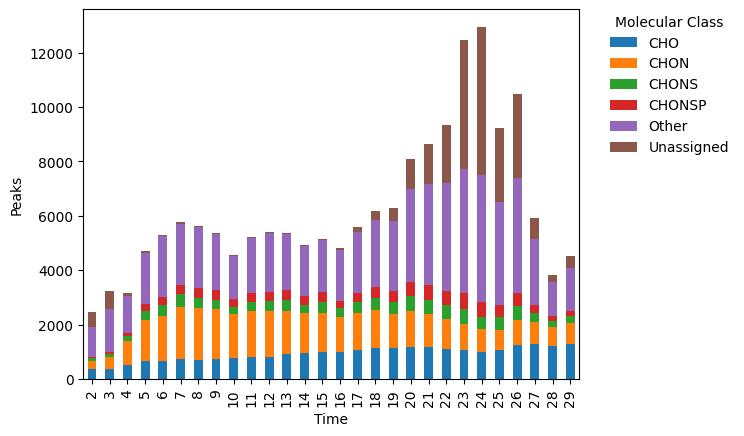
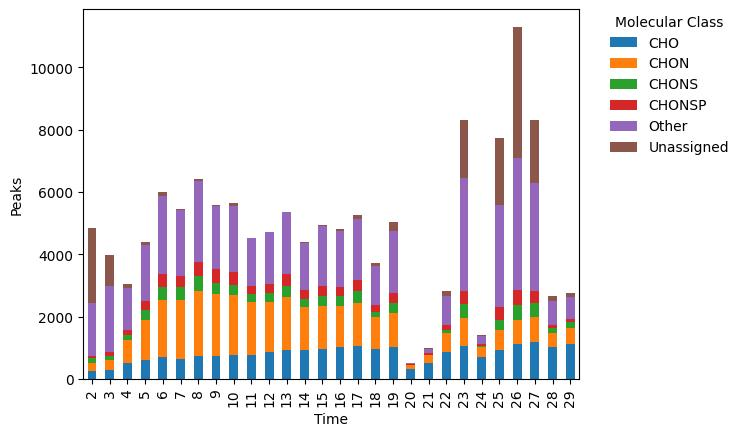
added code snippets for plotting

diff --git a/docs/workflow.rst b/docs/workflow.rst
@@ -68,7 +68,13 @@ Running this method produces (a) a plot of the EICs of the internal standard m/z
 Examine assignment error distributions
 ~~~~~~~~~~~~~~~~~~~~~~~~~~~~~~~~~~~~~~
 
-We can also plot the m/z error for each assignment across the mass range. This allows us to evaluate the calibration and whether there is a systematic drift in the data. An example of this is shown in Figure 2. 
+We can also plot the m/z error for each assignment across the mass range, for each sample within the dataset.
+
+.. code-block::
+
+    assignments.run_assignment_error_plot(n_molclass = 3)
+    
+This allows us to evaluate the calibration and whether there is a systematic drift in the data. An example of this is shown in Figure 2. 
 
 .. raw:: html
 
@@ -77,7 +83,7 @@ We can also plot the m/z error for each assignment across the mass range. This a
 
 .. image:: ./images/mz-error.jpg
 
-**Figure 2.** **(a)** The assignment error for formulas in the CHO, CHON, and CHOS molecular classes across the mass range. **(b)** Kernel density estimation plots of assignment error for each time-averaged mass spectrum.
+**Figure 2.** **(a)** The assignment error for formulas in the CHO, CHON, and CHOS molecular classes across the mass range in one sample of the dataset. **(b)** Kernel density estimation plots of assignment error for each time-averaged mass spectrum for the same sample.
 
 .. raw:: html
 
@@ -90,6 +96,10 @@ Examine retention by molecular class
 
 Finally, we can examine the number of assignments in a subset (or all) of the possible molecular classes in a dataset, as well as the number of unassigned m/z, across the chromatographic separation. This analysis can reveal potentially problematic time-averaged mass spectra. 
 
+.. code-block::
+
+    assignments.run_molclass_retention_plot(n_molclass = 4)
+
 .. raw:: html
 
    <hr/>
@@ -97,7 +107,7 @@ Finally, we can examine the number of assignments in a subset (or all) of the po
 
 .. image:: ./images/rt-mc.jpg
 
-**Figure 3.** Bar plot showing the number of formulas of each molecular class in each time-averaged mass spectrum across the chromatographic separation. 
+**Figure 3.** Bar plot showing the number of formulas of each molecular class in each time-averaged mass spectrum across the chromatographic separation of one sample.
 
 .. raw:: html
 
